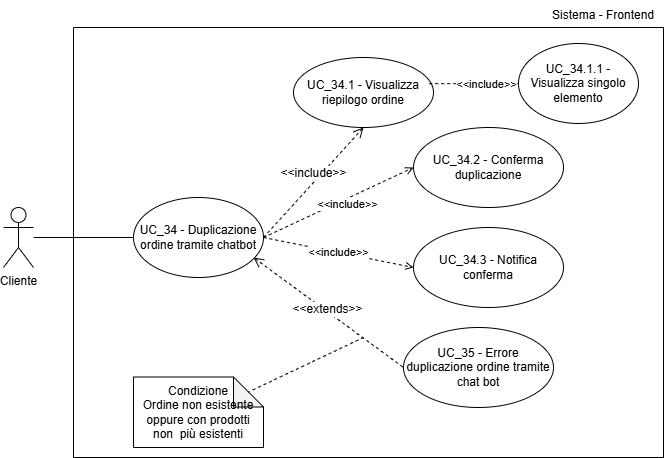
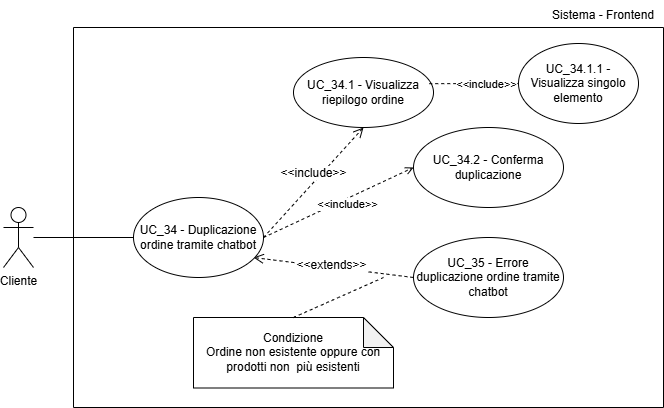
Aggiunti UC_58-UC_60

diff --git a/src/RTB/Documenti Esterni/Analisi dei Requisiti/content/riepilogo.tex b/src/RTB/Documenti Esterni/Analisi dei Requisiti/content/riepilogo.tex
@@ -163,8 +163,6 @@
     \hline
     \hyperref[uc_22.1]{UC\_22.1} & \hyperlink{rf-ob_83}{RF-OB\_83} \\
     \hline
-    \hyperref[uc_22.2]{UC\_22.2} & \hyperlink{rf-ob_84}{RF-OB\_84} \\
-    \hline
 
     \hyperref[uc_23]{UC\_23} & \hyperlink{rf-de_44}{RF-DE\_44}, \hyperlink{rf-de_45}{RF-DE\_45}, \hyperlink{rf-de_46}{RF-DE\_46} \\
     \hline
@@ -174,8 +172,6 @@
     \hline
     \hyperref[uc_23.3]{UC\_23.3} & \hyperlink{rf-de_54}{RF-DE\_54}, \hyperlink{rf-de_55}{RF-DE\_55} \\
     \hline
-    \hyperref[uc_23.4]{UC\_23.4} & \hyperlink{rf-de_56}{RF-DE\_56} \\
-    \hline
 
     \hyperref[uc_24]{UC\_24} & \hyperlink{rf-de_57}{RF-DE\_57}, \hyperlink{rf-de_58}{RF-DE\_58} \\
     \hline
@@ -184,8 +180,6 @@
     \hyperref[uc_24.2]{UC\_24.2} & \hyperlink{rf-de_49}{RF-DE\_49}, \hyperlink{rf-de_50}{RF-DE\_50}, \hyperlink{rf-de_51}{RF-DE\_51}, \hyperlink{rf-de_52}{RF-DE\_52}, \hyperlink{rf-de_53}{RF-DE\_53} \\
     \hline
     \hyperref[uc_24.3]{UC\_24.3} & \hyperlink{rf-de_61}{RF-DE\_61}, \hyperlink{rf-de_62}{RF-DE\_62} \\
-    \hline
-    \hyperref[uc_24.4]{UC\_24.4} & \hyperlink{rf-de_63}{RF-DE\_63} \\
     \hline
 
     \hyperref[uc_25]{UC\_25} & \hyperlink{rf-de_64}{RF-DE\_64}, \hyperlink{rf-de_65}{RF-DE\_65}, \hyperlink{rf-de_66}{RF-DE\_66} \\
@@ -211,8 +205,6 @@
     \hline
     \hyperref[uc_26.3]{UC\_26.3} & \hyperlink{rf-ob_76}{RF-OB\_76} \\
     \hline
-    \hyperref[uc_26.4]{UC\_26.4} & \hyperlink{rf-ob_77}{RF-OB\_77} \\
-    \hline
     \hyperref[uc_26.5]{UC\_26.5} & \hyperlink{rf-ob_78}{RF-OB\_78} \\
     \hline
 
@@ -226,8 +218,6 @@
     \hline
 
     \hyperref[uc_30]{UC\_30} & \hyperlink{rf-de_72}{RF-DE\_72}, \hyperlink{rf-de_73}{RF-DE\_73}, \hyperlink{rf-de_74}{RF-DE\_74}, \hyperlink{rf-de_77}{RF-DE\_77}, \hyperlink{rf-de_78}{RF-DE\_78}, \hyperlink{rf-de_79}{RF-DE\_79}, \hyperlink{rf-de_80}{RF-DE\_80}, \hyperlink{rf-de_81}{RF-DE\_81}, \hyperlink{rf-de_82}{RF-DE\_82} \\
-    \hline
-    \hyperref[uc_30.1]{UC\_30.1} & \hyperlink{rf-de_75}{RF-DE\_75} \\
     \hline
 
     \hyperref[uc_31]{UC\_31} & \hyperlink{rf-de_76}{RF-DE\_76} \\
@@ -248,8 +238,6 @@
     \hyperref[uc_32.3.1]{UC\_32.3.1} & \hyperlink{rf-op_14}{RF-OP\_14} \\
     \hline
     \hyperref[uc_32.3.2]{UC\_32.3.2} & \hyperlink{rf-ob_19}{RF-OB\_19}, \hyperlink{rf-op_15}{RF-OP\_15} \\
-    \hline
-    \hyperref[uc_32.4]{UC\_32.4} & \hyperlink{rf-op_8}{RF-OP\_08} \\
     \hline
 
     \hyperref[uc_33]{UC\_33} & \hyperlink{rf-op_9}{RF-OP\_09} \\
@@ -420,6 +408,20 @@
     \hyperref[uc_52]{UC\_52} & \hyperlink{rf-de_136}{RF-DE\_136}, \hyperlink{rf-de_137}{RF-DE\_137}, \hyperlink{rf-de_138}{RF-DE\_138}, \hyperlink{rf-de_139}{RF-DE\_139} \\
     \hline
     \hyperref[uc_53]{UC\_53} & \hyperlink{rf-de_140}{RF-DE\_140}, \hyperlink{rf-de_141}{RF-DE\_141}\\
+    \hline
+    \hyperref[uc_54]{UC\_54} & \hyperlink{rf-ob_77}{RF-OB\_77} \\
+    \hline
+    \hyperref[uc_55]{UC\_55} & \hyperlink{rf-ob_84}{RF-OB\_84} \\
+    \hline
+    \hyperref[uc_56]{UC\_56} & \hyperlink{rf-de_56}{RF-DE\_56} \\
+    \hline
+    \hyperref[57]{UC\_57} & \hyperlink{rf-de_63}{RF-DE\_63} \\
+    \hline
+    \hyperref[uc_58]{UC\_58} & \hyperlink{rf-de_75}{RF-DE\_75} \\
+    \hline
+    \hyperref[uc_59]{UC\_59} & \hyperlink{rf-op_8}{RF-OP\_08} \\
+    \hline
+    \hyperref[uc_60]{UC\_60} & \hyperlink{rf-de_86}{RF-DE\_86} \\
     \hline
 
     \caption{Tracciamento dei Requisiti Funzionali}

diff --git a/src/RTB/Documenti Esterni/Analisi dei Requisiti/content/funzionali.tex b/src/RTB/Documenti Esterni/Analisi dei Requisiti/content/funzionali.tex
@@ -406,7 +406,7 @@
 	\hline
 	RF-DE\_74 \hypertarget{rf-de_74} & L'Admin deve poter schiacciare il tasto \vr{Esporta} nella pagina dello storico ordini & \hyperref[uc_30]{UC\_30} \\
 	\hline
-	RF-DE\_75 \hypertarget{rf-de_75} & L'Admin deve poter visualizzare la conferma dell'esportazione dello storico ordini & \hyperref[uc_30.1]{UC\_30.1} \\
+	RF-DE\_75 \hypertarget{rf-de_75} & L'Admin deve poter visualizzare la conferma dell'esportazione dello storico ordini & \hyperref[uc_58]{UC\_58} \\
 	\hline
 	RF-DE\_76 \hypertarget{rf-de_76} & L'Admin deve poter visualizzare un errore nel caso in cui non fosse stato possibile scaricare nel proprio dispositivo il file & \hyperref[uc_31]{UC\_31} \\
 	\hline
@@ -428,7 +428,7 @@
 	\hline
 	RF-DE\_85 \hypertarget{rf-de_85} & Il Cliente deve poter richiedere la duplicazione di un ordine tramite un input testuale, immagine o di audio & \hyperref[uc_34]{UC\_34} \newline \hyperref[uc_09]{UC\_09} \newline \hyperref[uc_11]{UC\_11} \newline \hyperref[uc_13]{UC\_13} \\
 	\hline
-	RF-DE\_86 \hypertarget{rf-de_86} & Il Cliente deve poter visualizzare una notifica di conferma della duplicazione & \hyperref[uc_34.3]{UC\_34.3} \\
+	RF-DE\_86 \hypertarget{rf-de_86} & Il Cliente deve poter visualizzare una notifica di conferma della duplicazione & \hyperref[uc_60]{UC\_60} \\
 	\hline
 	RF-DE\_87 \hypertarget{rf-de_87} & L'Admin deve poter visualizzare le statistiche & \hyperref[uc_40]{UC\_40} \\
 	\hline
@@ -591,7 +591,7 @@
 	\hline
 	RF-OP\_15 \hypertarget{rf-op_15} & L'Admin deve poter visualizzare l'errore nel caso in cui l'email sia già presente nel sistema & \hyperref[uc_32.3.2]{UC\_32.3.2} \\
 	\hline
-	RF-OP\_16 \hypertarget{rf-op_16} & Deve essere visualizzata una notifica a schermo che informa della corretta creazione dell'Utente & \hyperref[uc_32.4]{UC\_32.4} \\
+	RF-OP\_16 \hypertarget{rf-op_16} & Deve essere visualizzata una notifica a schermo che informa della corretta creazione dell'Utente & \hyperref[uc_59]{UC\_59} \\
 	\hline
 	RF-OP\_17 \hypertarget{rf-op_17} & L'Admin deve poter visualizzare la notifica di errore creazione utente & \hyperref[uc_33]{UC\_33}\\
 	\hline

diff --git a/src/RTB/Documenti Esterni/Analisi dei Requisiti/content/uc/UC_34.tex b/src/RTB/Documenti Esterni/Analisi dei Requisiti/content/uc/UC_34.tex
@@ -15,7 +15,6 @@
 		\item Il sistema identifica e propone l'ordine da duplicare
 		\item Il Cliente conferma la duplicazione $\rightarrow$ Vedi \hyperref[uc_34.2]{UC\_34.2}
 		\item Il sistema duplica l'ordine
-		\item Il sistema mostra una notifica di conferma $\rightarrow$ Vedi \hyperref[uc_34.3]{UC\_34.3}
 	\end{enumerate}
 	\item \textbf{Precondizioni}:
 	\begin{itemize}
@@ -36,7 +35,6 @@
 	\begin{itemize}
 		\item \hyperref[uc_34.1]{UC\_34.1}
 		\item \hyperref[uc_34.2]{UC\_34.2}
-		\item \hyperref[uc_34.3]{UC\_34.3}
 	\end{itemize}
 	\item \textbf{Estensioni}:
 	\begin{itemize}
@@ -178,26 +176,4 @@ UC\_34.1.1 presenta tre ulteriori inclusioni, come mostrato in figura:
 		\item La duplicazione dell'ordine è confermata dal Cliente
 	\end{itemize}
 	\item \textbf{Trigger}: Il sistema richiede conferma per procedere con la duplicazione
-\end{itemize}
-
-\subsubsubsection{UC\_34.3: Notifica conferma}
-\label{uc_34.3}
-
-\begin{itemize}
-    \item \textbf{Attore$^G$ Principale}: Cliente
-	\item \textbf{Scenario principale}:
-	\begin{enumerate}
-		\item Il sistema mostra al Cliente una notifica di conferma della duplicazione
-		\item Il Cliente visualizza la notifica
-	\end{enumerate}
-	\item \textbf{Precondizioni}:
-	\begin{itemize}
-		\item Il Cliente ha confermato la duplicazione $\rightarrow$ Vedi \hyperref[uc_34.2]{UC\_34.2}
-		\item Il sistema ha completato la duplicazione dell'ordine
-	\end{itemize}
-	\item \textbf{Postcondizioni}:
-	\begin{itemize}
-		\item La notifica di conferma è stata visualizzata
-	\end{itemize}
-	\item \textbf{Trigger}: Il sistema ha completato con successo la duplicazione dell'ordine
 \end{itemize}

diff --git a/src/RTB/Documenti Esterni/Analisi dei Requisiti/content/uc/UC_30.tex b/src/RTB/Documenti Esterni/Analisi dei Requisiti/content/uc/UC_30.tex
@@ -14,7 +14,6 @@
 		\item L'Admin richiede l'esportazione dello storico ordini in formato JSON$^G$
 		\item Il sistema genera e rende disponibile il file JSON$^G$
 		\item L'Admin scarica lo storico ordini in formato JSON$^G$
-		\item Il sistema mostra una notifica di download riuscito $\rightarrow$ Vedi \hyperref[uc_30.1]{UC\_30.1}
 	\end{enumerate}
 	\item \textbf{Precondizioni}:
 	\begin{itemize}
@@ -31,35 +30,9 @@
 	\begin{itemize}
 		\item Si è verificato un errore nel download dello storico ordini $\rightarrow$ Vedi \hyperref[uc_31]{UC\_31}
 	\end{itemize}
-	\item \textbf{Inclusioni}:
-	\begin{itemize}
-		\item \hyperref[uc_30.1]{UC\_30.1}
-	\end{itemize}
 	\item \textbf{Estensioni}:
 	\begin{itemize}
 		\item \hyperref[uc_31]{UC\_31}
 	\end{itemize}
 	\item \textbf{Trigger}: L'Admin vuole esportare lo storico ordini in formato JSON$^G$
-\end{itemize}
-
-\subsubsubsection{UC\_30.1: Visualizzazione notifica}
-\label{uc_30.1}
-
-\begin{itemize}
-	\item \textbf{Attore$^G$ principale}: Admin
-	\item \textbf{Scenario principale}:
-	\begin{enumerate}
-		\item Il sistema mostra una notifica di download riuscito
-		\item L'Admin visualizza la notifica
-	\end{enumerate}
-	\item \textbf{Precondizioni}:
-	\begin{itemize}
-		\item L'Admin ha completato il download del file JSON$^G$ $\rightarrow$ Vedi \hyperref[uc_30]{UC\_30}
-		\item Il file JSON$^G$ è stato generato correttamente
-	\end{itemize}
-	\item \textbf{Postcondizioni}:
-	\begin{itemize}
-		\item La notifica di download riuscito è stata visualizzata
-	\end{itemize}
-	\item \textbf{Trigger}: Il sistema conferma il completamento dell'operazione di esportazione
 \end{itemize}

diff --git a/src/RTB/Documenti Esterni/Analisi dei Requisiti/content/uc/UC_32.tex b/src/RTB/Documenti Esterni/Analisi dei Requisiti/content/uc/UC_32.tex
@@ -16,7 +16,6 @@
 		\item L'Admin inserisce lo username $\rightarrow$ Vedi \hyperref[uc_32.2]{UC\_32.2}
 		\item L'Admin inserisce l'email $\rightarrow$ Vedi \hyperref[uc_32.3]{UC\_32.3}
 		\item L'Admin conferma la creazione del nuovo Utente
-		\item Il sistema mostra una notifica di creazione riuscita $\rightarrow$ Vedi \hyperref[uc_32.4]{UC\_32.4}
 	\end{enumerate}
 	\item \textbf{Precondizioni}:
 	\begin{itemize}
@@ -36,7 +35,6 @@
 		\item \hyperref[uc_32.1]{UC\_32.1}
 		\item \hyperref[uc_32.2]{UC\_32.2}
 		\item \hyperref[uc_32.3]{UC\_32.3}
-		\item \hyperref[uc_32.4]{UC\_32.4}
 	\end{itemize}
 	\item \textbf{Estensioni}:
 	\begin{itemize}
@@ -229,25 +227,4 @@ UC\_32.3 presenta due ulteriori estensioni, come mostrato in figura:
     \begin{itemize}
         \item L'Admin visualizza un messaggio di errore per email già presente nel sistema
     \end{itemize}
-\end{itemize}
-
-\subsubsubsection{UC\_32.4: Notifica creazione riuscita}
-\label{uc_32.4}
-
-\begin{itemize}
-    \item \textbf{Attore$^G$ Principale}: Admin
-	\item \textbf{Scenario principale}:
-	\begin{enumerate}
-		\item Il sistema mostra una notifica di creazione Utente riuscita
-		\item L'Admin visualizza la notifica
-	\end{enumerate}
-	\item \textbf{Precondizioni}:
-	\begin{itemize}
-		\item La creazione del nuovo Utente è stata confermata ed elaborata con successo
-	\end{itemize}
-	\item \textbf{Postcondizioni}:
-	\begin{itemize}
-		\item La notifica di creazione riuscita è stata visualizzata
-	\end{itemize}
-	\item \textbf{Trigger}: Il sistema conferma l'avvenuta creazione del nuovo Utente
 \end{itemize}

diff --git a/src/RTB/Documenti Esterni/Analisi dei Requisiti/content/uc/UC_60.tex b/src/RTB/Documenti Esterni/Analisi dei Requisiti/content/uc/UC_60.tex
@@ -1,0 +1,26 @@
+\subsubsection{UC\_60: Notifica conferma duplicazione ordine tramite chatbot}
+\label{uc_60}
+
+\begin{figure}[H]
+	\centering
+	\includegraphics[width=0.8\textwidth]{AnalisiRequisiti/UC_60}
+	\caption{UC\_60: Notifica conferma duplicazione ordine tramite chatbot}
+\end{figure}
+
+\begin{itemize}
+    \item \textbf{Attore$^G$ Principale}: Cliente
+	\item \textbf{Scenario principale}:
+	\begin{enumerate}
+		\item Il sistema mostra al Cliente una notifica di conferma della duplicazione
+		\item Il Cliente visualizza la notifica
+	\end{enumerate}
+	\item \textbf{Precondizioni}:
+	\begin{itemize}
+		\item Il Cliente ha confermato la duplicazione dell'ordine tramite chatbot $\rightarrow$ Vedi \hyperref[uc_34]{UC\_34}
+	\end{itemize}
+	\item \textbf{Postcondizioni}:
+	\begin{itemize}
+		\item Il Cliente ha visualizzato la notifica di conferma
+	\end{itemize}
+	\item \textbf{Trigger}: Il Cliente vuole visualizzare una notifica di conferma in caso di duplicazione dell'ordine 
+\end{itemize}

diff --git a/src/RTB/Documenti Esterni/Analisi dei Requisiti/content/uc/UC_58.tex b/src/RTB/Documenti Esterni/Analisi dei Requisiti/content/uc/UC_58.tex
@@ -1,0 +1,27 @@
+\subsubsection{UC\_58: Visualizzazione conferma esportazione}
+\label{uc_58}
+
+\begin{figure}[H]
+	\centering
+	\includegraphics[width=0.8\textwidth]{AnalisiRequisiti/UC_58}
+	\caption{UC\_58: Visualizzazione conferma esportazione}
+\end{figure}
+
+\begin{itemize}
+	\item \textbf{Attore$^G$ principale}: Admin
+	\item \textbf{Scenario principale}:
+	\begin{enumerate}
+		\item Il sistema mostra una notifica di download riuscito
+		\item L'Admin visualizza la notifica
+	\end{enumerate}
+	\item \textbf{Precondizioni}:
+	\begin{itemize}
+		\item L'Admin ha completato il download del file JSON$^G$ $\rightarrow$ Vedi \hyperref[uc_30]{UC\_30}
+		\item Il file JSON$^G$ è stato generato correttamente
+	\end{itemize}
+	\item \textbf{Postcondizioni}:
+	\begin{itemize}
+		\item L'Admin visualizza la notifica di download riuscito
+	\end{itemize}
+	\item \textbf{Trigger}: Il sistema conferma il completamento dell'operazione di esportazione
+\end{itemize}

diff --git a/src/RTB/Documenti Esterni/Analisi dei Requisiti/content/uc/UC_59.tex b/src/RTB/Documenti Esterni/Analisi dei Requisiti/content/uc/UC_59.tex
@@ -1,0 +1,26 @@
+\subsubsection{UC\_59: Notifica conferma creazione nuovi Utenti}
+\label{uc_59}
+
+\begin{figure}[H]
+	\centering
+	\includegraphics[width=0.8\textwidth]{AnalisiRequisiti/UC_59}
+	\caption{UC\_59: Notifica conferma creazione nuovi Utenti}
+\end{figure}
+
+\begin{itemize}
+    \item \textbf{Attore$^G$ Principale}: Admin
+	\item \textbf{Scenario principale}:
+	\begin{enumerate}
+		\item L'Admin visualizza una notifica di creazione Utente riuscita
+		\item L'Admin visualizza la notifica
+	\end{enumerate}
+	\item \textbf{Precondizioni}:
+	\begin{itemize}
+		\item La creazione del nuovo Utente è stata confermata $\rightarrow$ Vedi \hyperref[uc_32]{UC\_32}
+	\end{itemize}
+	\item \textbf{Postcondizioni}:
+	\begin{itemize}
+		\item La notifica di creazione riuscita è stata visualizzata
+	\end{itemize}
+	\item \textbf{Trigger}: L'Admin visualizza la conferma dell'avvenuta creazione del nuovo Utente
+\end{itemize}

diff --git a/src/RTB/Documenti Esterni/Analisi dei Requisiti/content/modifiche.tex b/src/RTB/Documenti Esterni/Analisi dei Requisiti/content/modifiche.tex
@@ -14,7 +14,9 @@
     \hline
     \endhead
 
-	1.0.0 & 09-02 & L. Casagrande & M. Mazzaretto & Approvazione documento \\
+	1.1.0 & 21-02 & M. Brunello & T. Ceron & Correzioni errori segnalati per la Requirements And Technology Baseline \\
+	\hline
+    1.0.0 & 09-02 & L. Casagrande & M. Mazzaretto & Approvazione documento \\
 	\hline
     0.20.0 & 04-02 & M. Mazzaretto & T. Ceron & Aggiunti UC\_50-53 \\
 	\hline

diff --git a/src/RTB/Documenti Esterni/Analisi dei Requisiti/content/table.tex b/src/RTB/Documenti Esterni/Analisi dei Requisiti/content/table.tex
@@ -1,8 +1,8 @@
 \begin{center}
 \begin{tabular}{r|l}
     Stato & Approvato per RTB \\[0.5em]
-    Versione & 1.0.0 \\[0.5em]
-    Data ultima modifica & 09/02/2026 \\[0.5em]
+    Versione & 1.1.0 \\[0.5em]
+    Data ultima modifica & 21/02/2026 \\[0.5em]
     Redattori & Lisa Casagrande \\
 	          & Luca Marcuzzo \\
 	          & Matteo Mazzaretto \\

diff --git a/src/RTB/Documenti Esterni/Analisi dei Requisiti/content/casi_uso.tex b/src/RTB/Documenti Esterni/Analisi dei Requisiti/content/casi_uso.tex
@@ -184,3 +184,9 @@ Ogni Caso d'Uso$^G$ si compone di tutte le informazioni presenti nella seguente 
 \input{content/uc/UC_56}
 
 \input{content/uc/UC_57}
+
+\input{content/uc/UC_58}
+
+\input{content/uc/UC_59}
+
+\input{content/uc/UC_60}
